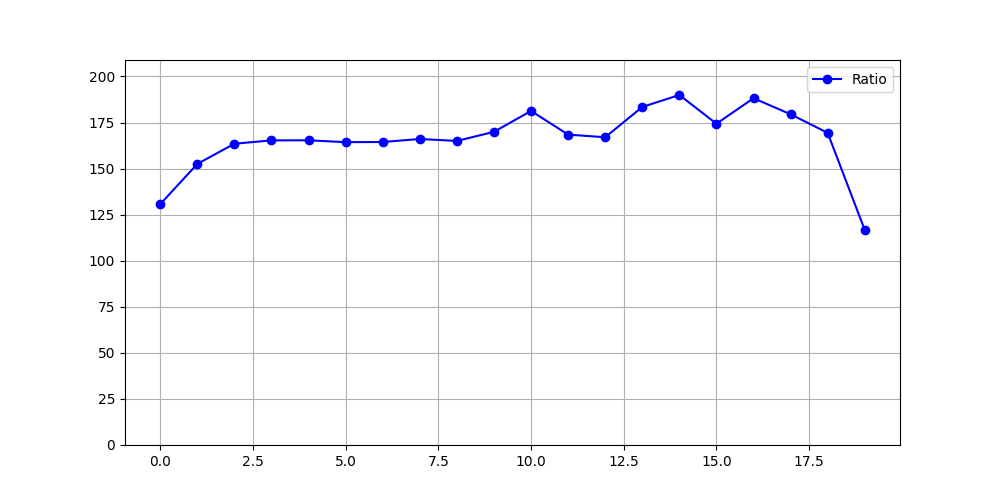
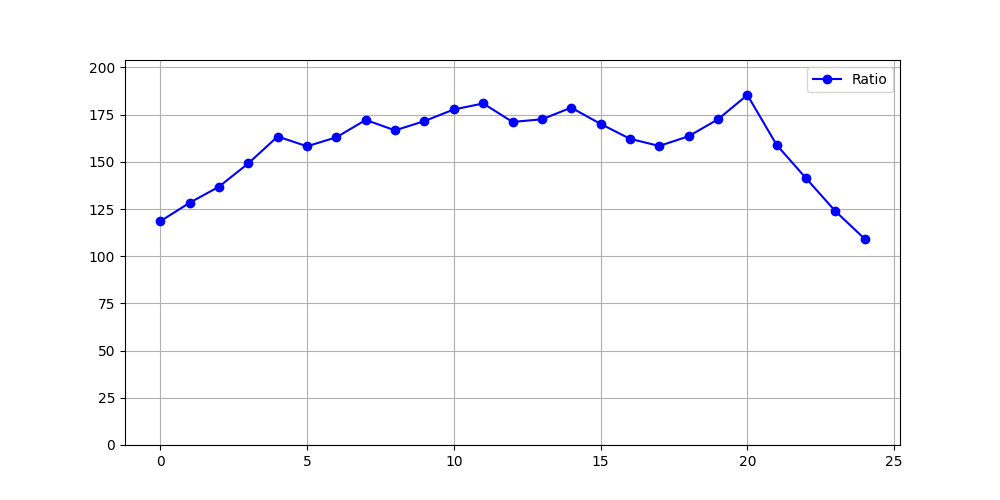
FIX

diff --git a/extract_data.py b/extract_data.py
@@ -1,13 +1,4 @@
-from loci.plugins import BF
-from ij import IJ
-from ij.gui import Roi
-from loci.plugins.in import ImporterOptions
-import csv
-import os
-
-
-ROOT_DIR = "/Users/iwakitakuma/image_j_pro"
-# ROOT_DIR = "/Users/atsushi/Downloads/count_cell_intensity"
+ROOT_DIR = "/Users/atsushi/Downloads/count_cell_intensity"
 DATA_DIR = ROOT_DIR + "/data/"
 POSITION_DIR = ROOT_DIR + "/positions/"
 EXTRACTED_DIR = ROOT_DIR + "/extracted_data/"
@@ -15,52 +6,71 @@ EXTRACTED_DIR = ROOT_DIR + "/extracted_data/"
 csv_filename = POSITION_DIR + "positions.csv"
 
 DEFAULT_COLOR = "green"
-SELECT_COLOR = {
-    "Untitled189.czi": "green",
-    "Untitled197.czi": "green"
-}
-with open(csv_filename, "r") as csvfile:
-    reader = csv.DictReader(csvfile)  # 各行を辞書として読み込む
-    data = [row for row in reader]  # リストに変換
+SELECT_COLOR = {"Untitled189.czi": "green", "Untitled197.czi": "green"}
+if __name__ == "__main__":
+    try:
+        from loci.plugins import BF
+        from ij import IJ
+        import importlib
+    except ImportError as e:
+        print(e)
 
-data_dict = {d["file_name"]: d for d in data if d["file_name"] in SELECT_COLOR and d['color'] == SELECT_COLOR.get(d["file_name"],DEFAULT_COLOR)}
+    import csv
+    import os
 
-for file_name, position in data_dict.items():
-    IMG_URL = DATA_DIR + file_name
-    def extract(imp,name):
-        dir_path = EXTRACTED_DIR + file_name + "/"
-        if not os.path.exists(dir_path):
-            os.makedirs(dir_path)
+    with open(csv_filename, "r") as csvfile:
+        reader = csv.DictReader(csvfile)  # 各行を辞書として読み込む
+        data = [row for row in reader]  # リストに変換
 
-        save_path = os.path.join(dir_path, file_name.replace(".czi", "-" + name + ".png"))
-        IJ.saveAs(imp, "PNG", save_path)
-        IJ.run(imp, "8-bit", "")
+    data_dict = {
+        d["file_name"]: d
+        for d in data
+        if d["file_name"] in SELECT_COLOR
+        and d["color"] == SELECT_COLOR.get(d["file_name"], DEFAULT_COLOR)
+    }
 
-        x1, y1 = int(position['x']),  int(position['y'])
-        width, height = int(position['w']),  int(position['h'])
+    for file_name, position in data_dict.items():
+        IMG_URL = DATA_DIR + file_name
 
-        imp.setRoi(x1, y1, width, height)
+        def extract(imp, name):
+            dir_path = EXTRACTED_DIR + file_name + "/"
+            if not os.path.exists(dir_path):
+                os.makedirs(dir_path)
 
-        ip = imp.getProcessor()
-        pixels = []
+            save_path = os.path.join(
+                dir_path, file_name.replace(".czi", "-" + name + ".png")
+            )
+            IJ.saveAs(imp, "PNG", save_path)
+            IJ.run(imp, "8-bit", "")
 
-        for y in range(y1, y1 + height):
-            for x in range(x1, x1 + width):
-                intensity = ip.getPixel(x, y)
-                pixels.append((x, y, intensity))
+            x1, y1 = int(position["x"]), int(position["y"])
+            width, height = int(position["w"]), int(position["h"])
 
-        output_path = dir_path + file_name + "-" + name + ".csv"
-        with open(output_path, "w") as csvfile:
-            writer = csv.writer(csvfile)
-            writer.writerow(["X", "Y", "Intensity"])  # ヘッダー行
-            writer.writerows(pixels)  # データを書き込み
+            imp.setRoi(x1, y1, width, height)
 
-    options = ImporterOptions()
-    options.setId(IMG_URL)
-    options.setSplitChannels(True)  # チャンネルを分ける
-    options.setColorMode(ImporterOptions.COLOR_MODE_DEFAULT)  # 各チャンネルを個別に取得
-    imps = BF.openImagePlus(options)  # チャンネルごとに ImagePlus を取得
-    print(len(imps))
-    extract(imps[0], "target")
-    extract(imps[1], "dna")
-print("End extract")
+            ip = imp.getProcessor()
+            pixels = []
+
+            for y in range(y1, y1 + height):
+                for x in range(x1, x1 + width):
+                    intensity = ip.getPixel(x, y)
+                    pixels.append((x, y, intensity))
+
+            output_path = dir_path + file_name + "-" + name + ".csv"
+            with open(output_path, "w") as csvfile:
+                writer = csv.writer(csvfile)
+                writer.writerow(["X", "Y", "Intensity"])  # ヘッダー行
+                writer.writerows(pixels)  # データを書き込み
+
+        ImporterOptions = importlib.import_module("loci.plugins.in").ImporterOptions
+        options = ImporterOptions()
+        options.setId(IMG_URL)
+        options.setSplitChannels(True)  # チャンネルを分ける
+        options.setColorMode(
+            ImporterOptions.COLOR_MODE_DEFAULT
+        )  # 各チャンネルを個別に取得
+        imps = BF.openImagePlus(options)  # チャンネルごとに ImagePlus を取得
+        print(len(imps))
+        extract(imps[0], "target")
+        extract(imps[1], "dna")
+    print("End extract")

diff --git a/analyze.py b/analyze.py
@@ -3,9 +3,9 @@ import numpy as np
 from scipy.stats import norm  # ガウス分布のパーセンタイル計算用
 import matplotlib.pyplot as plt
 import os
+from extract_data import SELECT_COLOR, DEFAULT_COLOR
 
-ROOT_DIR = "/Users/iwakitakuma/image_j_pro"
-# ROOT_DIR = "/Users/atsushi/Downloads/count_cell_intensity"
+ROOT_DIR = "/Users/atsushi/Downloads/count_cell_intensity"
 DATA_DIR = ROOT_DIR + "/data/"
 POSITION_DIR = ROOT_DIR + "/positions/"
 EXTRACTED_DIR = ROOT_DIR + "/extracted_data/"
@@ -13,15 +13,20 @@ RESULT_DIR = ROOT_DIR + "/results/"
 
 
 csv_filename = POSITION_DIR + "positions.csv"
-THRESHOLD = None
-NORM_PPF_P = 0.4
+THRESHOLD = 70
+NORM_PPF_P = 0.2
 
-NUM_BINS = 20
+NUM_BINS = 25
 with open(csv_filename, "r") as csvfile:
     reader = csv.DictReader(csvfile)  # 各行を辞書として読み込む
     data = [row for row in reader]  # リストに変換
 
-data_dict = {d["file_name"]: d for d in data}
+data_dict = {
+    d["file_name"]: d
+    for d in data
+    if d["file_name"] in SELECT_COLOR
+    and d["color"] == SELECT_COLOR.get(d["file_name"], DEFAULT_COLOR)
+}
 
 
 def line_equation(start, end):
@@ -46,20 +51,26 @@ def perpendicular_intersection(x, y, a, b):
         return x_p, y_p
 
 
-def get_intersection_order(points, start, end):
+def get_intersection_order(points, start, end, file_name):
     """各点から直線への垂線の交点を求め、start から end までの順番で並べる"""
     a, b = line_equation(start, end)
-    intersections = []
+    _intersections = []
 
     for x, y, value in points:
         x_p, y_p = perpendicular_intersection(x, y, a, b)
-        distance = np.sqrt(
-            (x_p - start[0]) ** 2 + (y_p - start[1]) ** 2
-        )  # 直線上の距離
-        intersections.append((x_p, y_p, value, distance))
+        distance = np.sqrt((x_p - end[0]) ** 2 + (y_p - end[1]) ** 2)  # 直線上の距離
+        _intersections.append((x_p, y_p, value, distance))
 
-    # 直線の進行方向（start → end）に沿って並べる
-    intersections.sort(key=lambda p: p[3])  # 距離でソート
+    _intersections.sort(key=lambda p: p[3], reverse=True)  # 距離でソート
+    start = _intersections[0]
+    intersections = []
+    for intersection in _intersections:
+        distance = np.sqrt(
+            (intersection[0] - start[0]) ** 2 + (intersection[1] - start[1]) ** 2
+        )
+        intersections.append(
+            (intersection[0], intersection[1], intersection[2], distance)
+        )
     return intersections
 
 
@@ -77,7 +88,6 @@ def compute_average_values(intersections, num_bins=NUM_BINS):
     for x_p, y_p, value, distance in intersections:
         bin_index = min(int((distance - start_distance) / bin_size), num_bins - 1)
         bins[bin_index].append(value)
-
     average_values = [np.mean(bin) if bin else 0 for bin in bins]
     return average_values
 
@@ -153,14 +163,16 @@ for file_name, position in data_dict.items():
     dna_data_values = [
         (int(d["X"]), int(d["Y"]), int(d["Intensity"])) for d in dna_data
     ]
-    dna_ordered_intersections = get_intersection_order(dna_data_values, start, end)
+    dna_ordered_intersections = get_intersection_order(
+        dna_data_values, start, end, file_name
+    )
     dna_average_values = compute_average_values(dna_ordered_intersections)
 
     target_data_values = [
         (int(d["X"]), int(d["Y"]), int(d["Intensity"])) for d in target_data
     ]
     target_ordered_intersections = get_intersection_order(
-        target_data_values, start, end
+        target_data_values, start, end, file_name
     )
     target_average_values = compute_average_values(target_ordered_intersections)
 

diff --git a/pre_process_czi.py b/pre_process_czi.py
@@ -6,14 +6,13 @@ import csv
 import matplotlib.pyplot as plt
 import os
 
-ROOT_DIR = "/Users/iwakitakuma/image_j_pro"
-# ROOT_DIR = "/Users/atsushi/Downloads/count_cell_intensity"
+ROOT_DIR = "/Users/atsushi/Downloads/count_cell_intensity"
 DATA_DIR = ROOT_DIR + "/data/"
 POSITION_DIR = ROOT_DIR + "/positions/"
-DEFAULT_MARGIN = 1
 file_names = ["Untitled189.czi", "Untitled197.czi"]
 
-MARGIN_DICT = {"Untitled189.czi": 1}
+DEFAULT_MARGIN = 1
+MARGIN_DICT = {"Untitled189.czi": 10}
 
 if not file_names:
     file_names = os.listdir(DATA_DIR)
